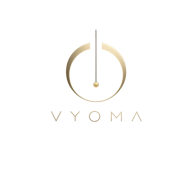
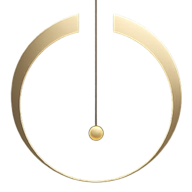
fix(web): switch branding to vyomaicon.png
Use sharper gold mark for navbar, login, sidebar, and
regenerate favicons from the new asset.

diff --git a/vyoma-ui/src/components/landing/PaymentModal.tsx b/vyoma-ui/src/components/landing/PaymentModal.tsx
@@ -24,7 +24,7 @@ export default function PaymentModal({ plan, onClose }: PaymentModalProps) {
     <div className="vyoma-modal-overlay" role="dialog" aria-modal="true" aria-labelledby="payment-modal-title">
       <button type="button" className="vyoma-modal-backdrop" onClick={onClose} aria-label="Close payment modal" />
       <div className="vyoma-modal vyoma-payment-modal">
-        <img src="/vyoma-logo.png" alt="" className="vyoma-payment-modal__logo" />
+        <img src="/vyomaicon.png" alt="" className="vyoma-payment-modal__logo" />
         <p className="vyoma-payment-modal__eyebrow">Complete your subscription</p>
         <h2 id="payment-modal-title" className="vyoma-payment-modal__plan font-cormorant">
           {plan.name}

diff --git a/vyoma-ui/src/components/Sidebar.tsx b/vyoma-ui/src/components/Sidebar.tsx
@@ -36,7 +36,7 @@ export default function Sidebar(_props?: { user?: unknown }) {
     <aside className="vyoma-sidebar">
       <div className="vyoma-sidebar__brand">
         <Link to="/dashboard" className="vyoma-sidebar__logo-link">
-          <img src="/vyoma-logo.png" alt="" className="vyoma-sidebar__mark" />
+          <img src="/vyomaicon.png" alt="" className="vyoma-sidebar__mark" />
           <span className="vyoma-sidebar__wordmark font-cormorant">VYOMA</span>
         </Link>
       </div>

diff --git a/vyoma-ui/src/pages/Login.tsx b/vyoma-ui/src/pages/Login.tsx
@@ -61,7 +61,7 @@ export default function Login() {
 
       <div className="login-card">
         <div className="login-header">
-          <img src="/vyoma-logo.png" alt="" className="login-logo-mark" />
+          <img src="/vyomaicon.png" alt="" className="login-logo-mark" />
           <h1 className="login-title font-cormorant login-wordmark-vyoma">VYOMA</h1>
           <p className="login-subtitle">
             {isSignUp ? 'Create your Vyoma account' : 'Sign in to your cognitive companion'}

diff --git a/vyoma-ui/src/pages/ProfileSetup.tsx b/vyoma-ui/src/pages/ProfileSetup.tsx
@@ -41,7 +41,7 @@ export default function ProfileSetup() {
 
       <div className="login-card">
         <div className="login-header">
-          <img src="/vyoma-logo.png" alt="" className="login-logo-mark" />
+          <img src="/vyomaicon.png" alt="" className="login-logo-mark" />
           <h1 className="login-title font-cormorant login-wordmark-vyoma">VYOMA</h1>
           <p className="login-subtitle">Set up your operator profile — synced with the mobile app.</p>
         </div>

diff --git a/vyoma-ui/src/components/landing/VyomaNavbar.tsx b/vyoma-ui/src/components/landing/VyomaNavbar.tsx
@@ -8,7 +8,7 @@ export default function VyomaNavbar({ onGetStarted }: VyomaNavbarProps) {
   return (
     <header className="vyoma-nav">
       <a href="/" className="vyoma-nav-brand" aria-label="Vyoma home">
-        <img src="/vyoma-logo.png" alt="" className="vyoma-nav-mark" />
+        <img src="/vyomaicon.png" alt="" className="vyoma-nav-mark" />
         <span className="vyoma-nav-wordmark font-cormorant">VYOMA</span>
       </a>
       <div className="vyoma-nav-actions">
